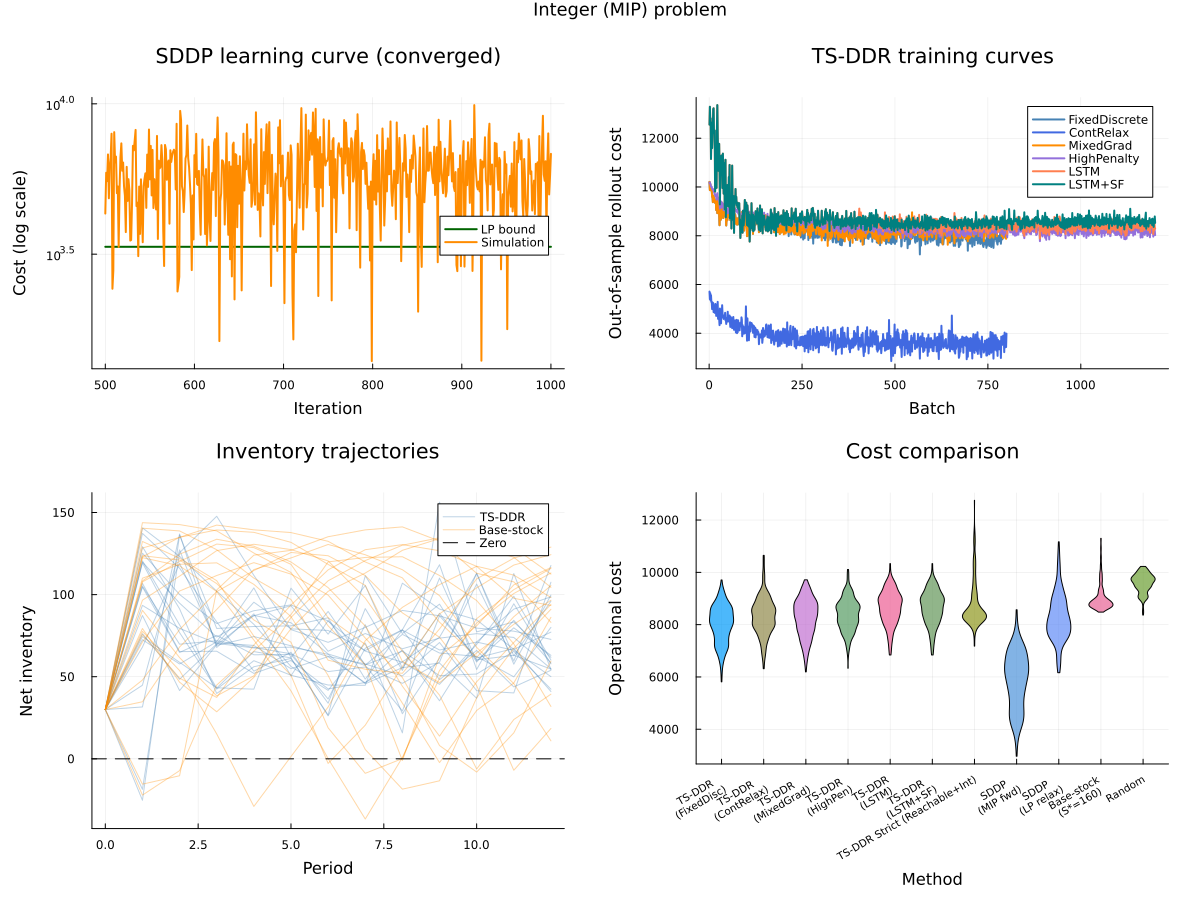
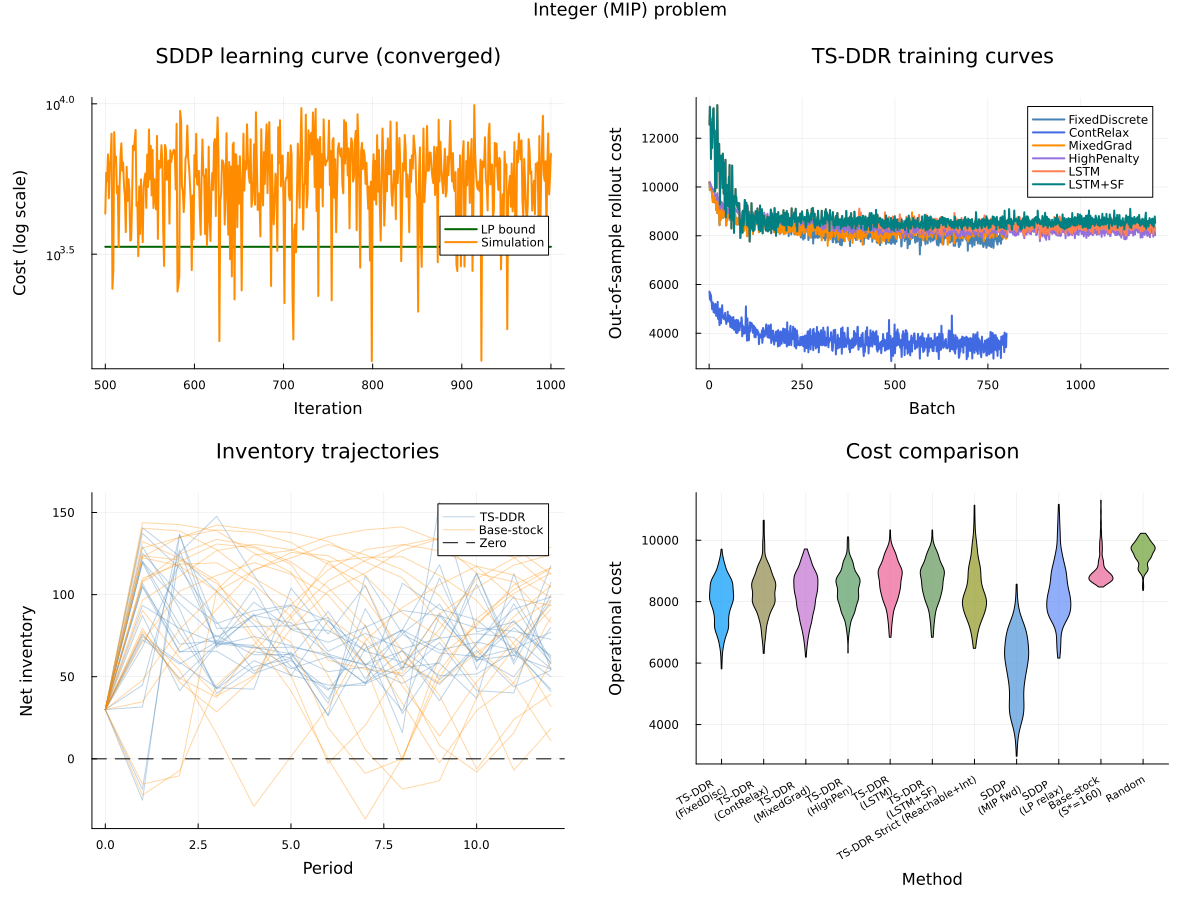
update plots

Changed region(s): [[0.5858, 0.5911, 0.9867, 0.8089], [0.5242, 0.56, 0.555, 0.6533]]

diff --git a/examples/HydroPowerModels/README.md b/examples/HydroPowerModels/README.md
@@ -68,14 +68,91 @@ full-size steps while its second-moment estimates are still zero, so the
 warmup protects the loaded optimum; and the decayed learning rate lets the
 policy re-anneal instead of random-walking at a fixed step size.
 
-**Paired evaluation against SDDP** (same 100 pre-sampled scenarios for both
-methods, via `bolivia/paired_scenario_indices.csv`):
+**Paired evaluation against SDDP** — both methods realize the same 500
+inflow trajectories, generated from a documented seed
+(`paired_scenario_indices` in `load_hydropowermodels.jl`, StableRNG, so the
+protocol is reproducible from code alone):
 
 ```bash
 julia --project -t auto eval_paired_tsddr.jl \
     bolivia/ACPPowerModel/models/<best>.jld2
 cd sddp && julia --project -t auto eval_paired_sddp.jl
 ```
+
+## Files in this folder
+
+Every script, what it does, and when to use it. All commands run from this
+folder with `julia --project`; configuration is via the env vars documented
+in each script's header.
+
+### Problem construction (used by everything else)
+
+| File | Purpose |
+|------|---------|
+| `load_hydropowermodels.jl` | Case loader: builds the stage subproblems from the MOF file + hydro data, reads inflows (tiled cyclically beyond the 47-month record), returns hydro metadata; `strict=true` for hard target equalities. Also defines `paired_scenario_indices`, the seeded paired-evaluation protocol. |
+| `hydro_reachable_policy.jl` | `HydroReachablePolicy`: reachable-set targets (sigmoid scaled to physics bounds), cascade-aware clamping, explicit LSTM state threading, optional stage-context inputs; plus checkpoint loaders. |
+
+### Training
+
+| File | Purpose |
+|------|---------|
+| `train_dr_hydropowermodels_strict.jl` | **The strict trainer** (stage-wise, Ipopt). Header documents the two-stage recipe that produces the paper policies (stage-1 from scratch, stage-2 fine-tune) and all env knobs incl. `DR_CONTEXT`. |
+| `train_dr_hydropowermodels.jl` | Non-strict deterministic-equivalent training (penalty formulation). |
+| `train_dr_hydropowermodels_subproblems.jl` | Non-strict stage-wise (single-shooting) training. |
+| `train_dr_hydropowermodels_multipleshooting.jl` | Non-strict multiple-shooting training. |
+| `train_ldr_hydropowermodels.jl` | TS-LDR (linear decision rule) baseline training. |
+| `train_dr_l2O_supervised.jl` | Supervised learning-to-optimize baseline (needs `gen_inputs_l2O_hydropowermodels.jl` outputs). |
+
+### Paired evaluation (produces the results tables)
+
+| File | Purpose |
+|------|---------|
+| `eval_paired_tsddr.jl` | Paired rollout evaluation of a checkpoint (`ARGS[1]`) on the seeded 500-scenario protocol; writes `paired_costs[_<policy-tag>].csv` and trajectory CSVs. |
+| `sddp/eval_paired_sddp.jl` | Paired SDDP simulation (`SDDP.Historical`) on the identical seeded scenarios; merges its column into the costs CSV. |
+| `dump_paired_policy_reference.jl` | Dumps policy outputs + inflow values (JLD2) consumed by DecisionRulesExa.jl's cross-package equivalence evaluation. |
+
+### Other evaluation & validation
+
+| File | Purpose |
+|------|---------|
+| `eval_strict_rollout.jl` | Standalone 96-stage rollout evaluation of a strict checkpoint (unpaired scenario set). |
+| `evaluate_hydro_policies.jl` | Batch evaluation of pre-trained TS-DDR/TS-LDR checkpoints on a fixed scenario set. |
+| `eval_jump_de.jl` | Evaluates a policy through the full-horizon JuMP deterministic equivalent. |
+| `check_consistent_state_paths.jl` | Consistency check: state paths agree across training formulations. |
+| `test_strict_mode.jl` | Strict-mode construction checks (hard equalities, reachable targets). |
+| `test_sampling_consistency.jl` | Verifies scenario sampling consistency across code paths. |
+| `validate_sddp_vs_jump.jl` | Validates that the JuMP subproblems match SDDP's formulation (the audit that keeps the SDDP comparison fair). |
+
+### Figures (regenerate the docs assets)
+
+| File | Purpose |
+|------|---------|
+| `plot_hydro_strict_convergence.jl` | Wall-clock training-convergence figure (parses `sddp/SDDP.log`, pulls W&B histories). |
+| `plot_hydro_paired_distributions.jl` | Paired cost-distribution figure (absolute densities + paired differences vs SDDP). |
+| `compare_hydro_results.jl` | W&B comparison plots across training formulations. |
+
+### SDDP baseline
+
+| File | Purpose |
+|------|---------|
+| `sddp/run_sddp.jl` | Trains the SDDP baseline (SOC-WR cuts, ACP forward pass); writes cuts JSON + `SDDP.log`. |
+| `sddp/run_sddp_inconsistent.jl` | SDDP with inconsistent backward/forward formulations (the published baseline configuration). |
+| `sddp/simulate_sddp_policy.jl` | Simulates a trained SDDP policy from its cuts file. |
+| `sddp/extract_sddp_trajectories.jl` | Extracts state/generation trajectories from SDDP simulations. |
+
+### Utilities
+
+| File | Purpose |
+|------|---------|
+| `export_subproblem_mof.jl` | Exports the single-stage OPF as `.mof.json` (how `bolivia/*.mof.json` was produced). |
+| `gen_inputs_l2O_hydropowermodels.jl` | Generates supervised-learning inputs for the L2O baseline. |
+
+### Data (`bolivia/`)
+
+`PowerModels.json` + `hydro.json` (network and hydro data), `inflows.csv`
+(47 monthly joint inflow scenarios), `ACPPowerModel.mof.json` etc. (exported
+stage subproblems), `ACPPowerModel/models/` (trained checkpoints) and
+`ACPPowerModel/results/` (evaluation outputs — data, not tracked).
 
 ## Strict Reachability Logic
 
